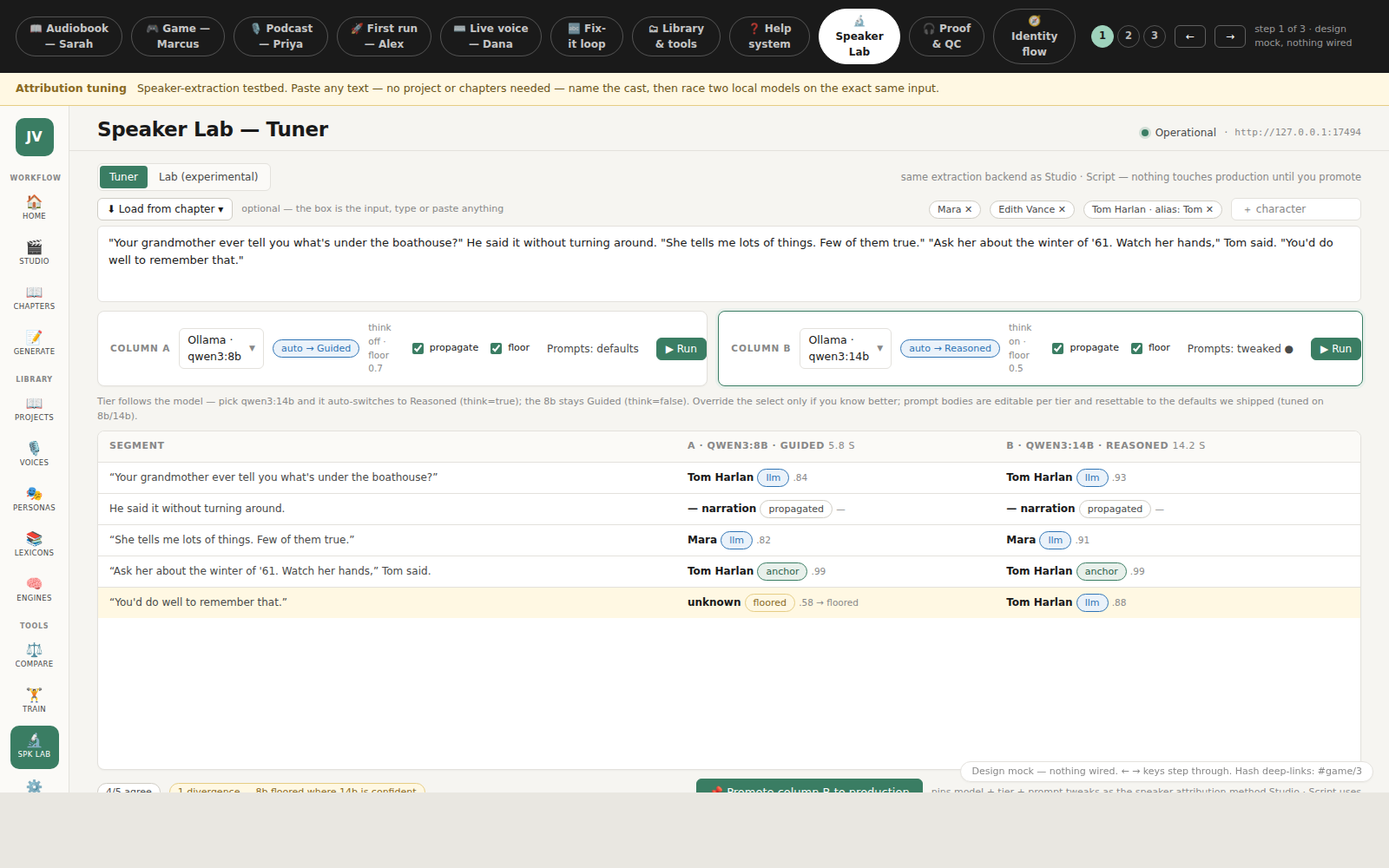
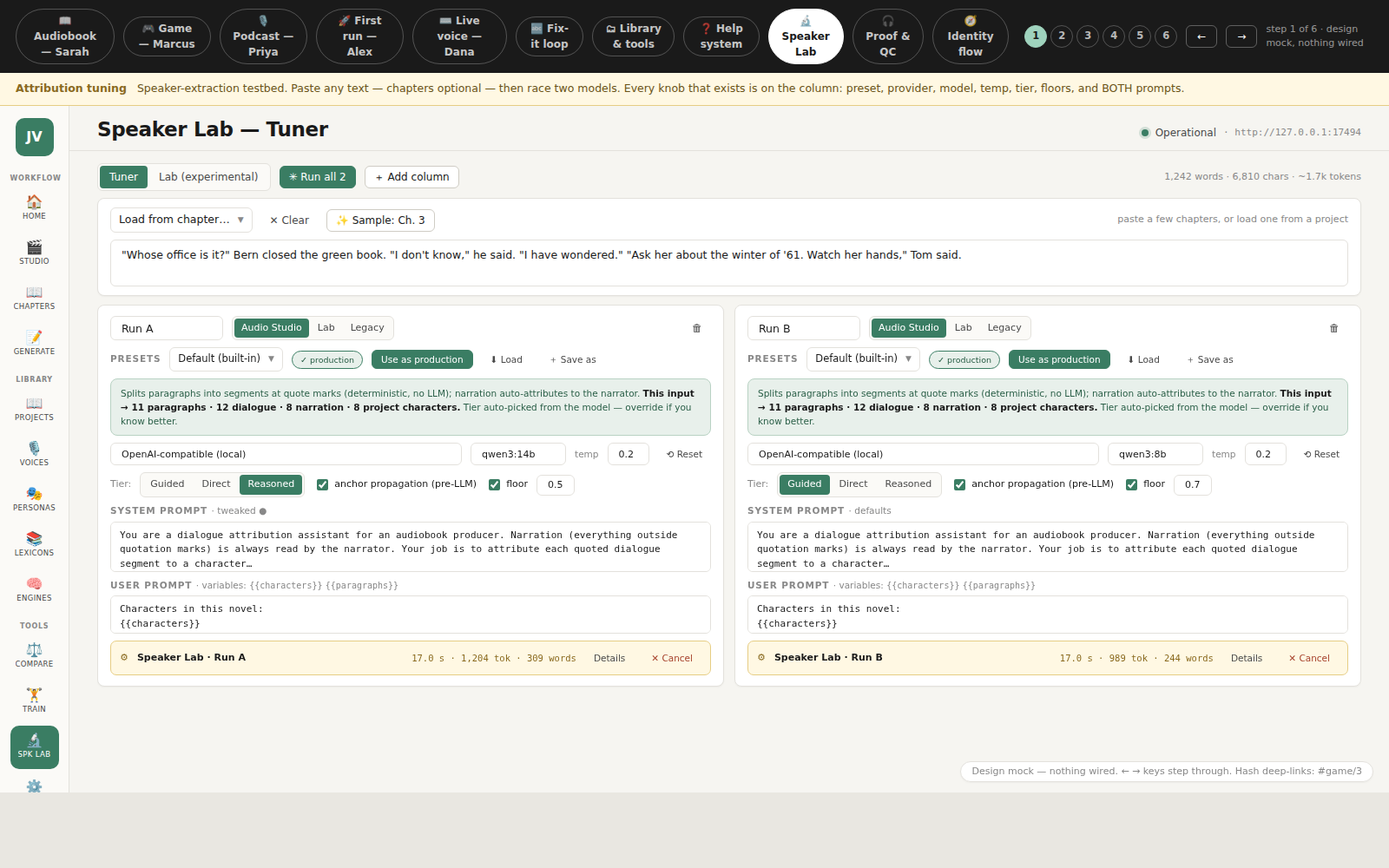
feat(design): Speaker Lab v2 per JW reference — presets row w/ use-as-production, system+user prompts w/ variables, JSON output, inline task bars; Generate + Script call-site progress labels (splab/5,6); CONCEPTS §16 addendum
https://claude.ai/code/session_01RnHLzYNeJn2GgAMKW1BPmR

diff --git a/preview/journeys-preview.html b/preview/journeys-preview.html
@@ -1288,44 +1288,71 @@ const stepsHelp = [
    ════════════════════════════════════════════════════════════════════ */
 const srcChip = s => ({anchor:'<span class="pill green">anchor</span>',llm:'<span class="pill blue">llm</span>',prop:'<span class="pill">propagated</span>',floor:'<span class="pill warn">floored</span>'})[s];
 const stepsSplab = [
-{ nav:"Spk Lab", t:"Speaker-extraction testbed. Paste any text — no project or chapters needed — name the cast, then race two local models on the exact same input.",
+{ nav:"Spk Lab", t:"Speaker-extraction testbed. Paste any text — chapters optional — then race two models. Every knob that exists is on the column: preset, provider, model, temp, tier, floors, and BOTH prompts.",
   html: () => shell("audiobook","Spk Lab","Speaker Lab — Tuner", "", `
     <div class="row" style="margin-bottom:8px"><span class="chips"><button class="chip active">Tuner</button><button class="chip">Lab (experimental)</button></span>
-      <span class="spacer"></span><span class="muted" style="font-size:11.5px">same extraction backend as Studio · Script — nothing touches production until you promote</span></div>
-    <div class="row" style="margin-bottom:6px">
-      <button class="btn secondary sm">⬇ Load from chapter ▾</button><span class="muted" style="font-size:11px">optional — the box is the input, type or paste anything</span>
-      <span class="spacer"></span>
-      <span class="pill">Mara ✕</span><span class="pill">Edith Vance ✕</span><span class="pill">Tom Harlan · alias: Tom ✕</span>
-      <input class="input" style="max-width:150px;height:26px;font-size:12px" placeholder="＋ character"/></div>
-    <textarea class="input" style="height:88px;padding:9px 12px;resize:none;font-size:13px;margin-bottom:10px">"Your grandmother ever tell you what's under the boathouse?" He said it without turning around. "She tells me lots of things. Few of them true." "Ask her about the winter of '61. Watch her hands," Tom said. "You'd do well to remember that."</textarea>
-    <div style="display:grid;grid-template-columns:1fr 1fr;gap:12px;margin-bottom:10px">
-      ${[["A","Ollama · qwen3:8b","auto → Guided","think off · floor 0.7","defaults",""],
-         ["B","Ollama · qwen3:14b","auto → Reasoned","think on · floor 0.5","tweaked ●","border-color:var(--accent);box-shadow:0 0 0 3px var(--accent-soft)"]]
-        .map(c=>`<div class="card" style="padding:11px 14px;${c[5]}"><div class="row" style="flex-wrap:nowrap">
-          <span class="eyebrow" style="flex:none">Column ${c[0]}</span>
-          <span class="combo-cell">${c[1]}<span class="chev">▼</span></span>
-          <span class="pill blue">${c[2]}</span><span class="muted" style="font-size:10.5px">${c[3]}</span>
-          <span class="spacer"></span>
-          <label style="font-size:11px;display:inline-flex;gap:4px;align-items:center"><input type="checkbox" checked style="accent-color:var(--accent)"/>propagate</label>
-          <label style="font-size:11px;display:inline-flex;gap:4px;align-items:center"><input type="checkbox" checked style="accent-color:var(--accent)"/>floor</label>
-          <button class="btn ghost sm">Prompts: ${c[4]}</button><button class="btn sm">▶ Run</button></div></div>`).join("")}
+      <button class="btn sm">✳ Run all 2</button><button class="btn secondary sm">＋ Add column</button>
+      <span class="spacer"></span><span class="muted" style="font-size:11px">1,242 words · 6,810 chars · ~1.7k tokens</span></div>
+    <div class="card" style="padding:10px 14px;margin-bottom:10px;flex:none">
+      <div class="row" style="margin-bottom:8px"><span class="combo-cell">Load from chapter…<span class="chev">▼</span></span><button class="btn ghost sm">✕ Clear</button><button class="btn secondary sm">✨ Sample: Ch. 3</button><span class="spacer"></span><span class="muted" style="font-size:11px">paste a few chapters, or load one from a project</span></div>
+      <textarea class="input" style="height:54px;padding:8px 12px;resize:none;font-size:12.5px">"Whose office is it?" Bern closed the green book. "I don't know," he said. "I have wondered." "Ask her about the winter of '61. Watch her hands," Tom said.</textarea>
     </div>
-    <p class="muted" style="font-size:11px;margin:0 0 8px">Tier follows the model — pick qwen3:14b and it auto-switches to Reasoned (think=true); the 8b stays Guided (think=false). Override the select only if you know better; prompt bodies are editable per tier and resettable to the defaults we shipped (tuned on 8b/14b).</p>
-    <div class="card" style="flex:1;min-height:0;overflow:auto"><table class="vtable">
-      <thead><tr><th style="min-width:280px">Segment</th><th>A · qwen3:8b · Guided <span class="muted" style="font-weight:400">5.8 s</span></th><th>B · qwen3:14b · Reasoned <span class="muted" style="font-weight:400">14.2 s</span></th></tr></thead>
-      <tbody>
-        ${[["“Your grandmother ever tell you what's under the boathouse?”",["Tom Harlan","llm",".84"],["Tom Harlan","llm",".93"],0],
-           ["He said it without turning around.",["— narration","prop","—"],["— narration","prop","—"],0],
-           ["“She tells me lots of things. Few of them true.”",["Mara","llm",".82"],["Mara","llm",".91"],0],
-           ["“Ask her about the winter of '61. Watch her hands,” Tom said.",["Tom Harlan","anchor",".99"],["Tom Harlan","anchor",".99"],0],
-           ["“You'd do well to remember that.”",["unknown","floor",".58 → floored"],["Tom Harlan","llm",".88"],1]]
-          .map(r=>`<tr ${r[3]?'style="background:var(--warn-bg)"':''}><td style="font-size:12px;color:var(--ink-2)">${r[0]}</td>${[r[1],r[2]].map(c=>`<td style="white-space:nowrap"><strong style="font-size:12px">${c[0]}</strong> ${srcChip(c[1])} <span class="muted" style="font-size:10.5px">${c[2]}</span></td>`).join("")}</tr>`).join("")}
-      </tbody></table></div>
+    <div style="display:grid;grid-template-columns:1fr 1fr;gap:12px;flex:1;min-height:0;overflow-y:auto;align-content:start">
+      ${[["Run A","qwen3:14b","Reasoned","0.5","tweaked ●",1],["Run B","qwen3:8b","Guided","0.7","defaults",0]]
+        .map(c=>`<div class="card" style="padding:12px 14px">
+        <div class="row" style="flex-wrap:nowrap;margin-bottom:8px"><input class="input" style="height:28px;font-size:12.5px;max-width:130px" value="${c[0]}"/><span class="chips"><button class="chip active" style="padding:3px 8px;font-size:11px">Audio Studio</button><button class="chip" style="padding:3px 8px;font-size:11px">Lab</button><button class="chip" style="padding:3px 8px;font-size:11px">Legacy</button></span><span class="spacer"></span><button class="btn ghost sm">🗑</button></div>
+        <div class="row" style="flex-wrap:nowrap;margin-bottom:8px"><span class="eyebrow" style="flex:none">Presets</span><span class="combo-cell" style="font-size:11.5px">Default (built-in)<span class="chev">▼</span></span><span class="pill green" style="font-size:9.5px">✓ production</span><button class="btn sm" style="height:22px;font-size:10.5px">Use as production</button><button class="btn ghost sm" style="font-size:10.5px">⬇ Load</button><button class="btn ghost sm" style="font-size:10.5px">＋ Save as</button></div>
+        <div style="background:var(--accent-soft);border:1px solid var(--accent-line);border-radius:8px;padding:8px 11px;font-size:10.5px;line-height:1.55;color:var(--accent-ink);margin-bottom:8px">Splits paragraphs into segments at quote marks (deterministic, no LLM); narration auto-attributes to the narrator. <strong>This input → 11 paragraphs · 12 dialogue · 8 narration · 8 project characters.</strong> Tier auto-picked from the model — override if you know better.</div>
+        <div class="row" style="flex-wrap:nowrap;margin-bottom:8px"><input class="input" style="height:26px;font-size:11px" value="OpenAI-compatible (local)"/><input class="input" style="height:26px;font-size:11px;max-width:110px" value="${c[1]}"/><span class="muted" style="font-size:10.5px;flex:none">temp</span><input class="input" style="height:26px;font-size:11px;max-width:48px" value="0.2"/><button class="btn ghost sm" style="font-size:10.5px">⟲ Reset</button></div>
+        <div class="row" style="margin-bottom:8px"><span class="muted" style="font-size:11px">Tier:</span><span class="chips">${["Guided","Direct","Reasoned"].map(t=>`<button class="chip ${t===c[2]?'active':''}" style="padding:3px 9px;font-size:11px">${t}</button>`).join("")}</span>
+          <label style="font-size:11px;display:inline-flex;gap:4px;align-items:center"><input type="checkbox" checked style="accent-color:var(--accent)"/>anchor propagation (pre-LLM)</label>
+          <label style="font-size:11px;display:inline-flex;gap:4px;align-items:center"><input type="checkbox" checked style="accent-color:var(--accent)"/>floor</label><input class="input" style="height:24px;font-size:11px;max-width:44px" value="${c[3]}"/></div>
+        <div class="eyebrow" style="margin-bottom:4px">System prompt <span style="font-weight:400;text-transform:none;letter-spacing:0">· ${c[4]}</span></div>
+        <textarea class="input" style="height:58px;padding:7px 10px;resize:none;font-size:11px;font-family:var(--font-mono);margin-bottom:8px">You are a dialogue attribution assistant for an audiobook producer. Narration (everything outside quotation marks) is always read by the narrator. Your job is to attribute each quoted dialogue segment to a character…</textarea>
+        <div class="eyebrow" style="margin-bottom:4px">User prompt <span style="font-weight:400;text-transform:none;letter-spacing:0">· variables: <span class="mono" style="font-size:10px">{{characters}}</span> <span class="mono" style="font-size:10px">{{paragraphs}}</span></span></div>
+        <textarea class="input" style="height:44px;padding:7px 10px;resize:none;font-size:11px;font-family:var(--font-mono);margin-bottom:8px">Characters in this novel:
+{{characters}}
+
+Paragraphs (dialogue segments tagged inline): {{paragraphs}}</textarea>
+        <div class="row" style="flex-wrap:nowrap;background:var(--warn-bg);border:1px solid var(--warn-line);border-radius:7px;padding:6px 10px;font-size:11px;color:var(--warn-ink)"><span>⚙</span><strong style="flex:1">Speaker Lab · ${c[0]}</strong><span class="mono" style="font-size:10.5px">${c[5]?'17.0 s · 1,204 tok · 309 words':'17.0 s · 989 tok · 244 words'}</span><button class="btn ghost sm" style="font-size:10.5px">Details</button><button class="btn ghost sm" style="font-size:10.5px;color:var(--danger)">✕ Cancel</button></div>
+      </div>`).join("")}
+    </div>`) },
+
+{ nav:"Spk Lab", t:"Runs land below each column: parsed table or raw JSON. Save the tweak as a named preset, load it back later, and promote the winner to production.",
+  html: () => shell("audiobook","Spk Lab","Speaker Lab — results", "", `
+    <div class="row" style="margin-bottom:10px"><span class="chips"><button class="chip active">Tuner</button><button class="chip">Lab (experimental)</button></span>
+      <span class="pill green">Run A · qwen3:14b · Reasoned — 12/12 vs anchors · 14.2 s</span>
+      <span class="pill warn">Run B · qwen3:8b · Guided — 10/12 · 2 floored · 5.8 s</span>
+      <span class="spacer"></span><span class="chips"><button class="chip active">Parsed table</button><button class="chip">JSON</button></span></div>
+    <div class="two-col">
+      <div class="card" style="overflow:auto"><table class="vtable">
+        <thead><tr><th>Segment</th><th>A · 14b</th><th>B · 8b</th></tr></thead><tbody>
+          ${[["“Whose office is it?”",["Mara","llm",".91"],["Mara","llm",".79"],0],
+             ["Bern closed the green book.",["— narration","prop","—"],["— narration","prop","—"],0],
+             ["“I don't know,” he said. “I have wondered.”",["Bern","anchor",".99"],["Bern","anchor",".99"],0],
+             ["“Ask her about the winter of '61…” Tom said.",["Tom Harlan","anchor",".99"],["Tom Harlan","anchor",".99"],0],
+             ["“You'd do well to remember that.”",["Tom Harlan","llm",".88"],["unknown","floor",".58 → floored"],1]]
+            .map(r=>`<tr ${r[3]?'style="background:var(--warn-bg)"':''}><td style="font-size:11.5px;color:var(--ink-2)">${r[0]}</td>${[r[1],r[2]].map(x=>`<td style="white-space:nowrap;font-size:11.5px"><strong>${x[0]}</strong> ${srcChip(x[1])} <span class="muted" style="font-size:10px">${x[2]}</span></td>`).join("")}</tr>`).join("")}
+        </tbody></table></div>
+      <div class="card"><div class="card-h"><strong>JSON output — Run A</strong><span class="muted" style="font-size:11px">what production consumes</span></div><div class="card-b" style="padding:0">
+        <div class="codeblock" style="border-radius:0;height:100%">[
+  {<span class="k">"d"</span>: 1, <span class="k">"speaker"</span>: <span class="s">"mara"</span>,
+   <span class="k">"confidence"</span>: 0.91, <span class="k">"source"</span>: <span class="s">"llm"</span>},
+  {<span class="k">"d"</span>: 2, <span class="k">"speaker"</span>: <span class="s">"bern"</span>,
+   <span class="k">"confidence"</span>: 0.99, <span class="k">"source"</span>: <span class="s">"anchor"</span>},
+  {<span class="k">"d"</span>: 3, <span class="k">"speaker"</span>: <span class="s">"tom_harlan"</span>,
+   <span class="k">"confidence"</span>: 0.99, <span class="k">"source"</span>: <span class="s">"anchor"</span>},
+  {<span class="k">"d"</span>: 4, <span class="k">"speaker"</span>: <span class="s">"tom_harlan"</span>,
+   <span class="k">"confidence"</span>: 0.88, <span class="k">"source"</span>: <span class="s">"llm"</span>}
+]</div>
+      </div></div>
+    </div>
     <div class="row" style="margin-top:10px">
-      <span class="pill">4/5 agree</span><span class="pill warn">1 divergence — 8b floored where 14b is confident</span>
+      <button class="btn secondary sm">＋ Save tweaks as preset “qwen14b · tight floor”</button>
+      <button class="btn secondary sm">⬇ Load preset ▾</button>
       <span class="spacer"></span>
-      <button class="btn">📌 Promote column B to production</button>
-      <span class="muted" style="font-size:11px">pins model + tier + prompt tweaks as the speaker-attribution method Studio · Script uses</span></div>`) },
+      <button class="btn">✓ Use Run A as production</button>
+      <span class="muted" style="font-size:11px">pins model + tier + temp + both prompts as the Studio · Script method</span></div>`) },
 
 { nav:"Spk Lab", t:"The Lab tab — the two-pass experiment, preserved. Scored against a ground-truth corpus; it wins on accuracy, costs 2.3× tokens, and stays off by default.",
   html: () => shell("audiobook","Spk Lab","Speaker Lab — Lab (experimental)", "", `
@@ -1359,26 +1386,69 @@ const stepsSplab = [
       </div></div>
     </div>`) },
 
-{ nav:"Spk Lab", t:"Every AI call in the app — extraction, smart-assign, suggestions — runs through one task runner: live time, tokens, stall detection, cancel. Finishing fires a notification.",
-  html: () => shell("audiobook","Spk Lab","Speaker Lab — run in progress", `<span class="hdr-chip" style="border-color:var(--info-blue);color:var(--info-blue)">⚙ AI · 1 running</span>`, `
-    <div class="two-col" style="grid-template-columns:minmax(0,1fr) 350px">
-      <div class="card" style="opacity:.6"><div class="card-h"><strong>Results</strong><span class="pill blue">column B streaming…</span></div><div class="card-b">
-        ${[1,1,1].map(()=>`<div style="height:14px;background:var(--surface-3);border-radius:4px;margin-bottom:10px;width:${60+Math.random()*30}%"></div>`).join("")}
-        <div class="row" style="margin-top:6px"><div class="prog" style="flex:1"><div class="fill" style="width:62%"></div></div><span class="muted" style="font-size:11px">segment 29 / 47</span></div>
-      </div></div>
-      <div class="card"><div class="card-h"><strong>AI tasks</strong><span class="pill blue">1 running · 1 queued</span></div><div class="card-b">
-        <div style="border:1px solid var(--info-blue);border-radius:8px;padding:10px 12px;margin-bottom:8px;background:var(--info-soft)">
-          <div class="row" style="flex-wrap:nowrap"><strong style="font-size:12.5px;flex:1">Speaker extraction — qwen3:14b · Reasoned</strong><span class="pill blue">streaming</span></div>
-          <div class="row" style="margin-top:6px;font-size:11px;color:var(--ink-2)"><span class="mono">0:14</span><span>·</span><span class="mono">2,341 tok</span><span>·</span><span>last token 0.3 s ago</span><span class="spacer"></span><button class="btn ghost sm" style="color:var(--danger)">✕ Cancel</button></div>
+{ nav:"Spk Lab", t:"Every AI call gets two surfaces: a small inline bar at the call site (seconds · tokens · words · Details · Cancel), and a slide-out task queue that opens from the header chip or by clicking any inline bar.",
+  html: () => shell("audiobook","Spk Lab","Speaker Lab — runs in progress", `<span class="hdr-chip" style="border-color:var(--info-blue);color:var(--info-blue);cursor:pointer">⚙ AI · 2 running</span>`, `
+    <div class="two-col" style="grid-template-columns:minmax(0,1fr) 360px">
+      <div style="display:flex;flex-direction:column;gap:10px;min-width:0">
+        ${["Run A — qwen3:14b · Reasoned","Run B — qwen3:8b · Guided"].map((r,i)=>`
+        <div class="card" style="opacity:.65;padding:12px 14px">
+          <div class="row" style="flex-wrap:nowrap;margin-bottom:8px"><strong style="font-size:12.5px">${r}</strong><span class="pill blue">connecting</span><span class="spacer"></span></div>
+          ${[1,1].map(()=>`<div style="height:12px;background:var(--surface-3);border-radius:4px;margin-bottom:8px;width:${55+i*10+Math.random()*25}%"></div>`).join("")}
         </div>
-        <div style="border:1px solid var(--line);border-radius:8px;padding:9px 12px;margin-bottom:8px">
-          <div class="row" style="flex-wrap:nowrap"><strong style="font-size:12px;flex:1;color:var(--ink-2)">Smart-assign — Emberfall cast</strong><span class="pill ghost">queued</span></div>
-        </div>
-        <p class="eyebrow" style="margin:10px 0 6px">History</p>
-        ${[["Speaker extraction — qwen3:8b · Guided","✓ done","0:09 · 1,872 tok"],["Render-preset suggest","✕ cancelled","0:04 · 312 tok"]]
-          .map(h=>`<div class="row" style="flex-wrap:nowrap;font-size:11.5px;padding:5px 0;border-bottom:1px dashed var(--line)"><span style="flex:1;color:var(--ink-2)">${h[0]}</span><span class="pill ${h[1].startsWith('✓')?'green':''}" style="flex:none">${h[1]}</span><span class="mono muted" style="font-size:10.5px;flex:none">${h[2]}</span></div>`).join("")}
-        <div class="banner warn" style="margin-top:10px;font-size:11.5px">Stall detection: no token for 5 s → amber; 30 s → likely stuck, offers cancel + retry. Tasks survive leaving the view — the ⚙ AI header chip reopens this panel from anywhere; completion fires a toast (and an OS notification if the window is unfocused).</div>
+        <div class="row" style="flex-wrap:nowrap;background:var(--warn-bg);border:1px solid var(--warn-line);border-radius:7px;padding:7px 11px;font-size:11.5px;color:var(--warn-ink);cursor:pointer"><span>⚙</span><strong style="flex:1">Speaker Lab · ${r.split(" — ")[0]}</strong><span class="mono" style="font-size:10.5px">17.0 s · 0 tok</span><button class="btn ghost sm" style="font-size:10.5px">Details</button><button class="btn ghost sm" style="font-size:10.5px;color:var(--danger)">✕ Cancel</button></div>`).join("")}
+        <p class="muted" style="font-size:11px">The inline bar IS the entry point — every AI feature (extraction, smart-assign, suggestions, show notes) renders one at its call site; clicking it opens the queue →</p>
+      </div>
+      <div class="card"><div class="card-h"><span class="eyebrow" style="flex:1">Status</span><button class="btn ghost sm">✕ Close</button></div><div class="card-b">
+        <div class="display sm" style="margin-bottom:10px">AI tasks</div>
+        <div class="row" style="margin-bottom:8px"><span class="eyebrow">Running · 2</span><span class="spacer"></span><button class="btn ghost sm" style="font-size:10.5px;color:var(--danger)">✕ Cancel all</button></div>
+        ${[["Speaker Lab · Run A","speakerLab","connecting","17.0 s"],["Speaker Lab · Run B","speakerLab","connecting","17.0 s"]]
+          .map(t=>`<div style="border:1px solid var(--warn-line);background:var(--warn-bg);border-radius:8px;padding:9px 12px;margin-bottom:8px">
+            <div class="row" style="flex-wrap:nowrap"><strong style="font-size:12px;flex:1">${t[0]}</strong><span class="mono muted" style="font-size:10px">${t[1]}</span><button class="btn ghost sm" style="font-size:10.5px;color:var(--danger)">✕ Cancel</button></div>
+            <div class="row" style="margin-top:4px;font-size:11px;color:var(--ink-2)"><span style="width:7px;height:7px;border-radius:99px;background:var(--warn);display:inline-block"></span><span>${t[2]}</span><span class="mono">${t[3]}</span></div></div>`).join("")}
+        <div class="row" style="margin:12px 0 6px"><span class="eyebrow">Recent · 2</span></div>
+        ${[["Speaker extraction — ch. 4","✓ done","0:09 · 1,872 tok · 412 words"],["Render-preset suggest","✕ cancelled","0:04 · 312 tok"]]
+          .map(h=>`<div class="row" style="flex-wrap:nowrap;font-size:11.5px;padding:5px 0;border-bottom:1px dashed var(--line)"><span style="flex:1;color:var(--ink-2)">${h[0]}</span><span class="pill ${h[1].startsWith('✓')?'green':''}" style="flex:none">${h[1]}</span><span class="mono muted" style="font-size:10px;flex:none">${h[2]}</span></div>`).join("")}
+        <div class="banner warn" style="margin-top:10px;font-size:11px">No token 5 s → amber · 30 s → likely stuck (cancel + retry). Tasks survive leaving the view; completion fires a toast + OS notification when unfocused.</div>
       </div></div>
+    </div>`) },
+
+{ nav:"Generate", t:"What the label looks like at the Generate button: click ▶ Generate and the bar appears right under it — elapsed · audio rendered so far · engine · Cancel.",
+  html: () => shell("audiobook","Generate","Generate", `<span class="hdr-chip" style="border-color:var(--info-blue);color:var(--info-blue);cursor:pointer">⚙ AI · 1 running</span>`, `
+    <div class="two-col">
+      <div class="card"><div class="card-h"><strong>Quick generate</strong><span class="combo-cell">${glyph("Alex","#3a7d63")} Alex (cloned)<span class="chev">▼</span></span><span class="pill green">Chatterbox Turbo</span></div><div class="card-b">
+        <textarea class="input" style="height:90px;padding:10px 12px;resize:none">Welcome back. [chuckles] Let's pick up where we left off — chapter five, the storm cellar. The lake had gone the color of old pewter, and somewhere out on the water a loon called twice.</textarea>
+        <div class="row" style="margin-top:10px">
+          <span class="pill">speed 1.0×</span><span class="pill">exaggeration 0.4</span>
+          <span class="spacer"></span><button class="btn" disabled>▶ Generate</button>
+        </div>
+        <div class="row" style="flex-wrap:nowrap;background:var(--warn-bg);border:1px solid var(--warn-line);border-radius:7px;padding:7px 11px;font-size:11.5px;color:var(--warn-ink);margin-top:10px;cursor:pointer">
+          <span>⚙</span><strong style="flex:1">Generate · Alex (cloned)</strong>
+          <span class="mono" style="font-size:10.5px">2.3 s · 41 words · 5.8 s audio rendered</span>
+          <button class="btn ghost sm" style="font-size:10.5px">Details</button><button class="btn ghost sm" style="font-size:10.5px;color:var(--danger)">✕ Cancel</button></div>
+        <p class="muted" style="font-size:11px;margin-top:8px">Same bar, every AI/render call. Click anywhere on it → the AI-tasks slide-out. When it finishes, the bar becomes the player row.</p>
+      </div></div>
+      <div class="card"><div class="card-h"><strong>History</strong></div><div class="card-b">
+        <div class="row" style="border:1px solid var(--line);border-radius:8px;padding:8px 11px;flex-wrap:nowrap;font-size:12px"><button class="btn ghost sm">▶</button><span style="flex:1;min-width:0;overflow:hidden;text-overflow:ellipsis;white-space:nowrap">The lake had a way of holding the morning fog…</span><span class="muted" style="flex:none;font-size:11px">Alex · 4.1 s · 5 min ago</span></div>
+      </div></div>
+    </div>`) },
+
+{ nav:"Studio", t:"And from the Script tab: ✨ Analyze chapter shows the same label — elapsed · tokens · segment progress — while attributed rows fill in live above it.",
+  html: () => shell("audiobook","Studio","Studio — Script", projChip("Stillwater","Audiobook","ACX"), `
+    <div class="row" style="margin-bottom:10px"><span class="pill">1 · Cast</span><span class="pill solid" style="background:var(--accent);color:#fff;border-color:var(--accent)">2 · Script</span><span class="pill">3 · Render</span>
+      <span class="spacer"></span>
+      <select class="map-sel"><option>Chapter 4 · The Visitor</option></select>
+      <button class="btn sm" disabled>✨ Analyze chapter</button></div>
+    <div class="row" style="flex-wrap:nowrap;background:var(--warn-bg);border:1px solid var(--warn-line);border-radius:7px;padding:7px 11px;font-size:11.5px;color:var(--warn-ink);margin-bottom:10px;cursor:pointer">
+      <span>⚙</span><strong style="flex:1">Speaker extraction · Chapter 4</strong>
+      <span class="mono" style="font-size:10.5px">qwen3:14b · Reasoned · 0:12 · 1,840 tok · segment 21 / 47</span>
+      <div class="prog" style="width:130px;flex:none"><div class="fill" style="width:45%"></div></div>
+      <button class="btn ghost sm" style="font-size:10.5px">Details</button><button class="btn ghost sm" style="font-size:10.5px;color:var(--danger)">✕ Cancel</button></div>
+    <div class="scroll-fill">
+      ${[["Narrator","narration","The lake had a way of holding the morning fog long after the sun should have burned it off.","98%","narr",1],
+         ["Mara Vance","dialogue","“You knew. All these years, you knew and you let me think it was my fault.”","96%","mara",1],
+         ["Edith Vance","dialogue","“Sit down, child. Some things only make sense told in order.”","94%","edith",1]]
+        .map(l=>`<div class="line-row"><span class="sp">${glyph(l[0],C[l[4]])} ${l[0]}</span><span class="kind"><span class="pill ghost">${l[1]}</span></span><span class="txt">${l[2]}</span><span class="acc"><span class="pill green">${l[3]}</span></span></div>`).join("")}
+      ${[1,2,3].map(()=>`<div class="line-row" style="opacity:.5"><span class="sp"><span style="width:90px;height:11px;background:var(--surface-3);border-radius:4px;display:inline-block"></span></span><span class="txt"><span style="display:inline-block;width:${55+Math.random()*30}%;height:11px;background:var(--surface-3);border-radius:4px"></span></span></div>`).join("")}
     </div>`) },
 
 ];

diff --git a/docs/CONCEPTS.md b/docs/CONCEPTS.md
@@ -465,3 +465,27 @@ must surface to the user:
   unfocused
 
 Mocked as Speaker Lab step 3 (`#splab/3`).
+
+### §16 addendum — Speaker Lab + task runner details (from JustWrite screenshots)
+
+- **Two surfaces per AI task:** (1) a small **inline bar at the call
+  site** — seconds · tokens · words (or audio-seconds for TTS) ·
+  Details · Cancel — rendered wherever the task started (Generate
+  button, Script "Analyze chapter", Speaker Lab columns); clicking it
+  opens (2) the **AI-tasks slide-out**: Running (n) with per-task
+  source tag + status + elapsed + Cancel + "Cancel all", and Recent
+  with duration + tokens. Opens from the header ⚙ chip anywhere.
+- **Both prompts are editable per column** — system prompt AND user
+  prompt, the user prompt templated with `{{characters}}` /
+  `{{paragraphs}}` variables.
+- **Named tweak presets:** Save as / Load on each column; the active
+  production preset wears a ✓ production badge; "Use as production"
+  promotes the column's full config (model + tier + temp + both
+  prompts).
+- **JSON output view** alongside the parsed table — the raw structure
+  production consumes (d / speaker / confidence / source per segment).
+- Input header shows live **words · chars · ~tokens** counts; "Load
+  from chapter…" + Clear + Sample buttons sit above the paste box.
+- Visual fidelity note: JustVoice keeps its own design language (the
+  grid/green aesthetic) — the JustWrite screenshots are functional
+  reference, not pixel reference (user, 2026-06-11).
